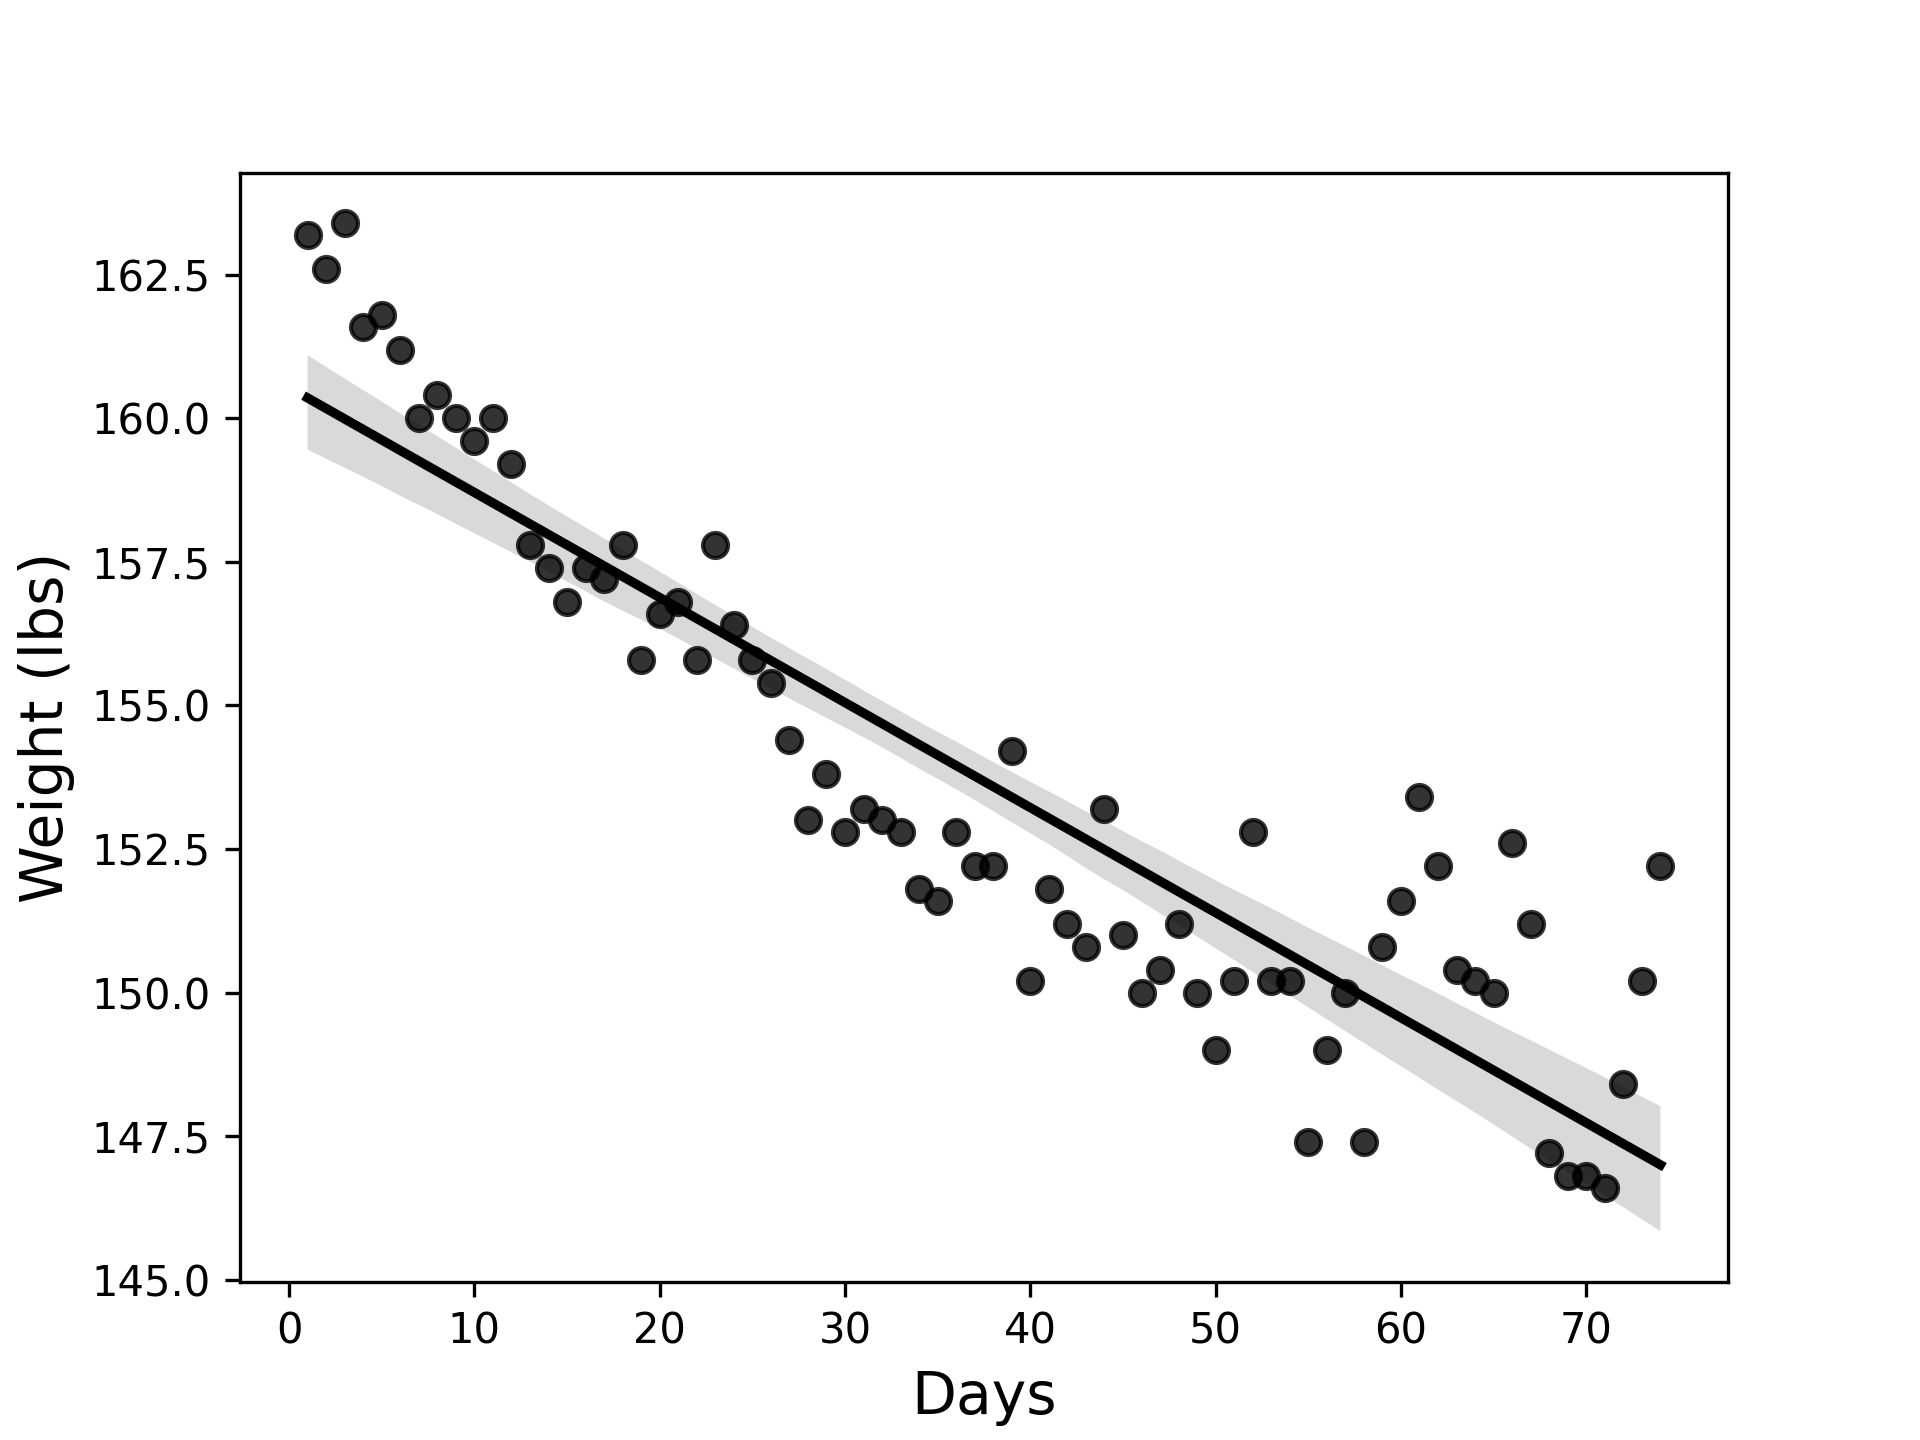
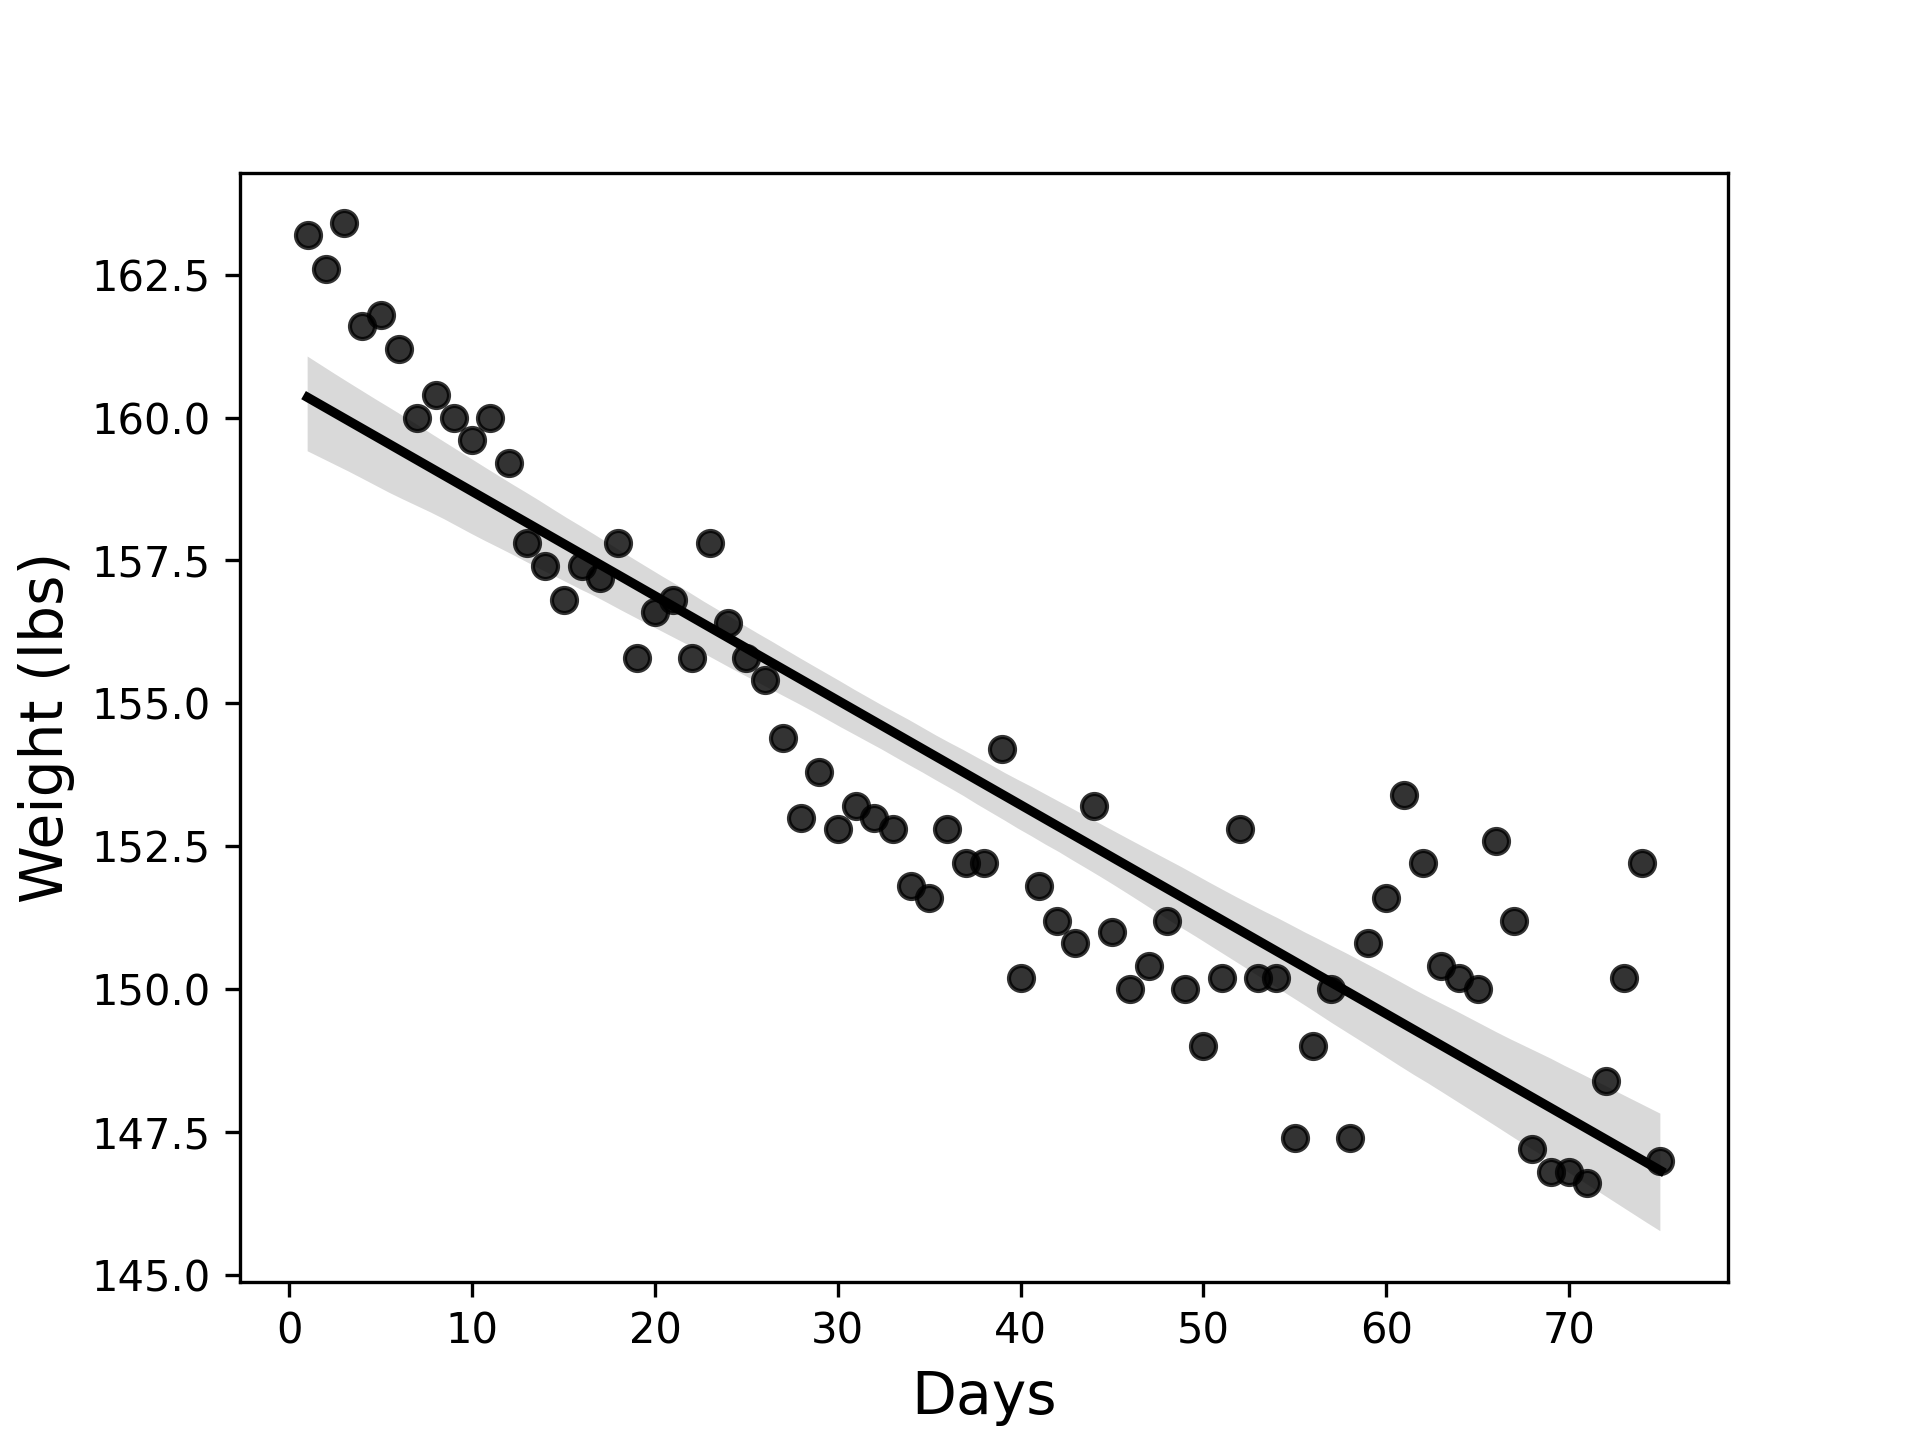
Updated weight.py and weight.png

diff --git a/Weight.py b/Weight.py
@@ -8,13 +8,13 @@ import seaborn as sns
 days_elapsed = np.array([1, 2, 3 ,4, 5, 6, 7, 8, 9, 10,11,12,13, 14,15,16,17,18,
                          19, 20,21,22,23,24,25,26,27,28,29,30,31,32,33,34,35,36,37,38,39,
                          40,41,42,43,44,45,46,47,48,49,50,51,52,53,54,55,56,57,58,59,60,61,62,
-                         63,64,65,66,67,68,69,70,71,72,73,74]).reshape(-1,1)
+                         63,64,65,66,67,68,69,70,71,72,73,74,75]).reshape(-1,1)
 weight = np.array([163.2, 162.6, 163.4, 161.6, 161.8, 161.2, 160.0, 160.4, 160.0, 159.6,160.0,159.2,157.8, 157.4,156.8,157.4,
                    157.2, 157.8,155.8, 156.6,156.8,155.8,157.8,156.4,155.8,155.4,154.4,153.0,153.8,152.8,153.2,
                    153.0,152.8,151.8,151.6,152.8,152.2,152.2,154.2,150.2, 151.8,151.2,150.8,153.2,
                    151.0,150.0,150.4,151.2,150.0,149.0,150.2,152.8,150.2,150.2,147.4,149.0,150.0,147.4,
                    150.8,151.6,153.4,152.2,150.4,150.2,150.0,152.6,151.2,147.2,146.8,146.8,146.6,
-                   148.4,150.2,152.2])
+                   148.4,150.2,152.2,147.0])
 # Day 62 BP
 
 # Instantiates a LinearRegression model and fits it to the above arrays
